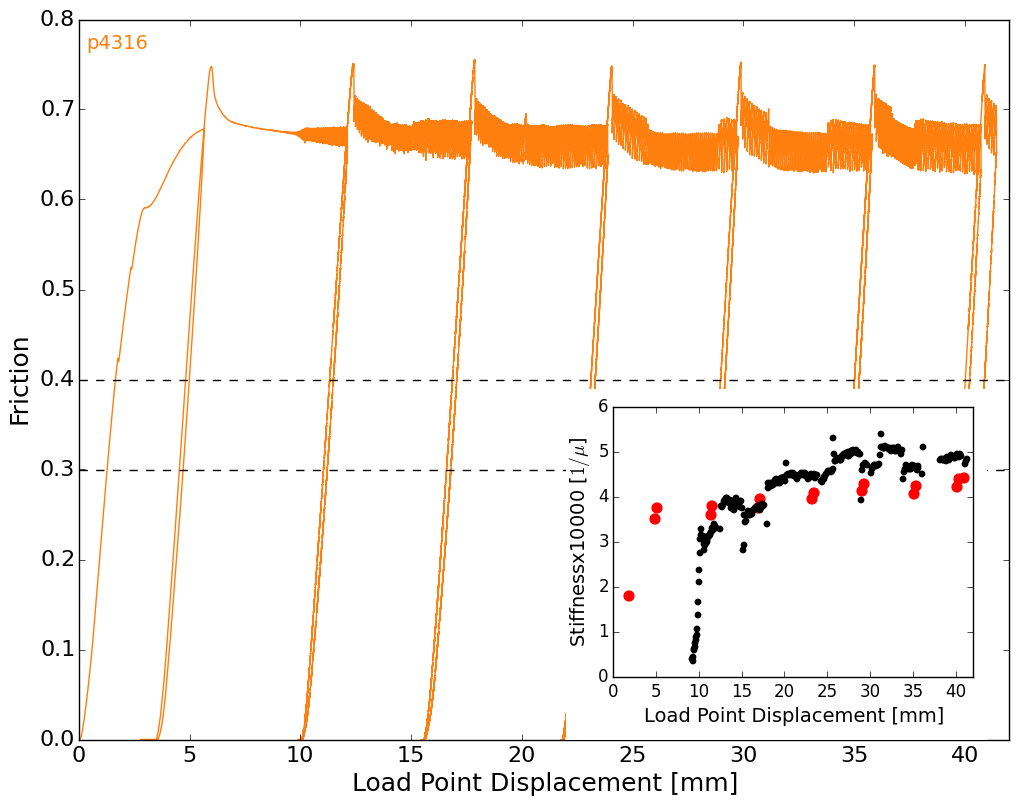
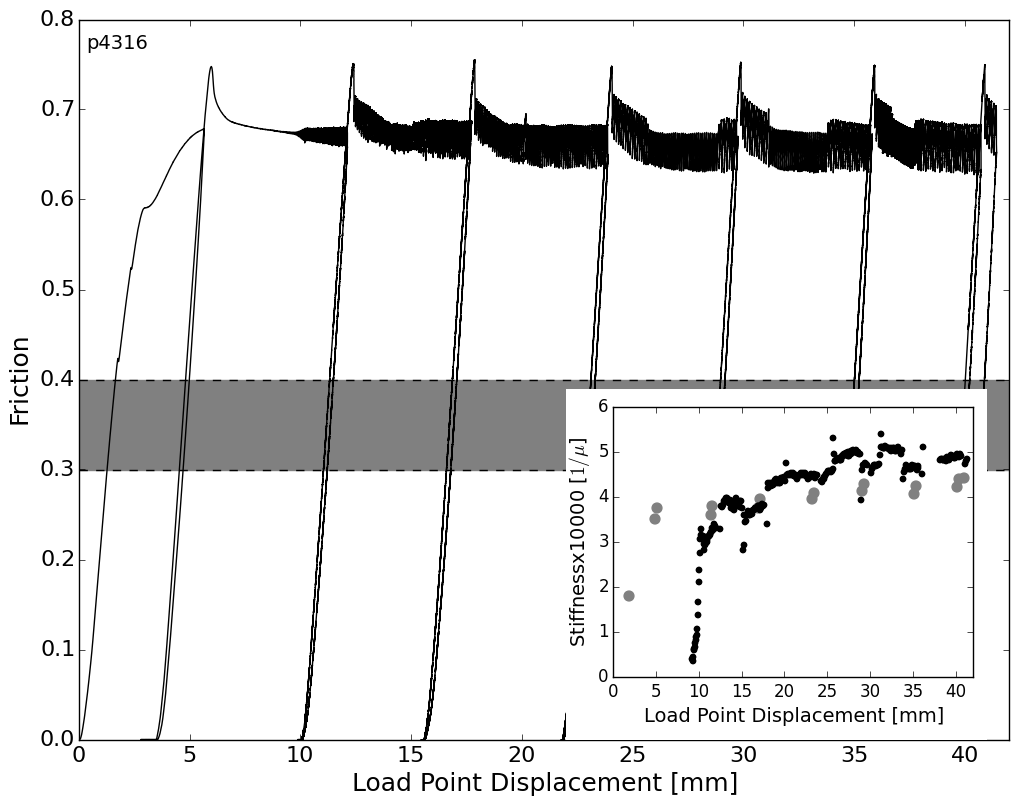
Update color scheme for clarity

diff --git a/Figures/Fig_Unload_Reloads/make_plot.py b/Figures/Fig_Unload_Reloads/make_plot.py
@@ -63,7 +63,7 @@ axB = plt.axes([0.57,0.17,0.3,0.3])
 #
 
 # Label experiment
-axA.text(0.01,0.96,'p4316',transform = axA.transAxes,fontsize=14,color=tableau20[2])
+axA.text(0.01,0.96,'p4316',transform = axA.transAxes,fontsize=14,color='k')
 
 # Set labels and tick sizes
 axA.set_xlabel(r'Load Point Displacement [mm]',fontsize=18)
@@ -80,11 +80,12 @@ axA.tick_params(axis='both', which='major', labelsize=16)
 #axA.spines["top"].set_visible(False)
 #axA.spines["right"].set_visible(False)
 
-axA.plot(p4316['LP_Disp'][::10]/1000.,p4316['mu'][::10],color=tableau20[2],linewidth=1)
+axA.plot(p4316['LP_Disp'][::10]/1000.,p4316['mu'][::10],color='k',linewidth=1)
 
 # Add horizontal lines to denote where stiffness was picked
 axA.axhline(y=0.3,color='k',linestyle='--')
 axA.axhline(y=0.4,color='k',linestyle='--')
+axA.axhspan(0.3,0.4,color='0.5')
 
 axA.set_ylim(0,0.8)
 axA.set_xlim(0,42)
@@ -95,7 +96,7 @@ axA.add_patch(rect)
 #
 # Inset Axes
 #
-axB.scatter(ur_disp/1000.,ur_stiffness*10000,color='r',s=50)
+axB.scatter(ur_disp/1000.,ur_stiffness*10000,color='0.5',s=50)
 axB.scatter(ev_disp/1000.,ev_stiffness*10000,color='k',s=15)
 axB.set_xlabel(r'Load Point Displacement [mm]',fontsize=14)
 axB.set_ylabel(r'Stiffnessx10000 [$1/\mu$]',fontsize=14)
